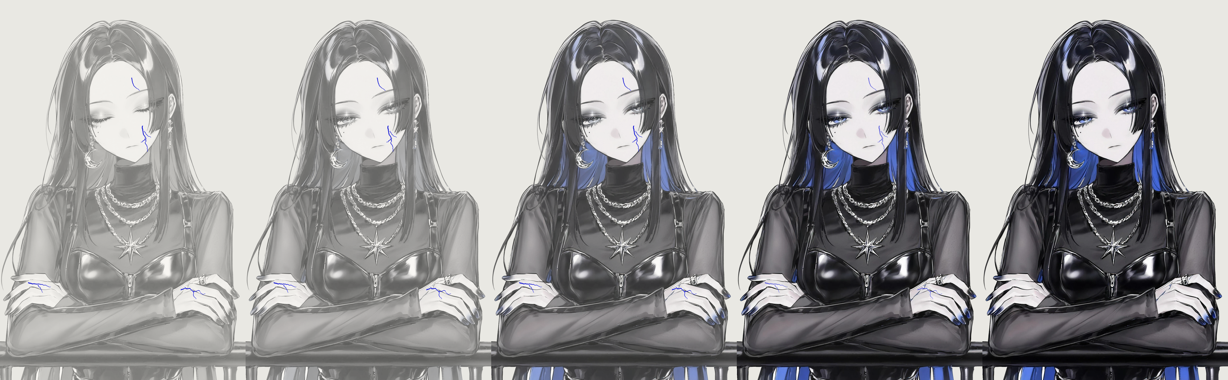
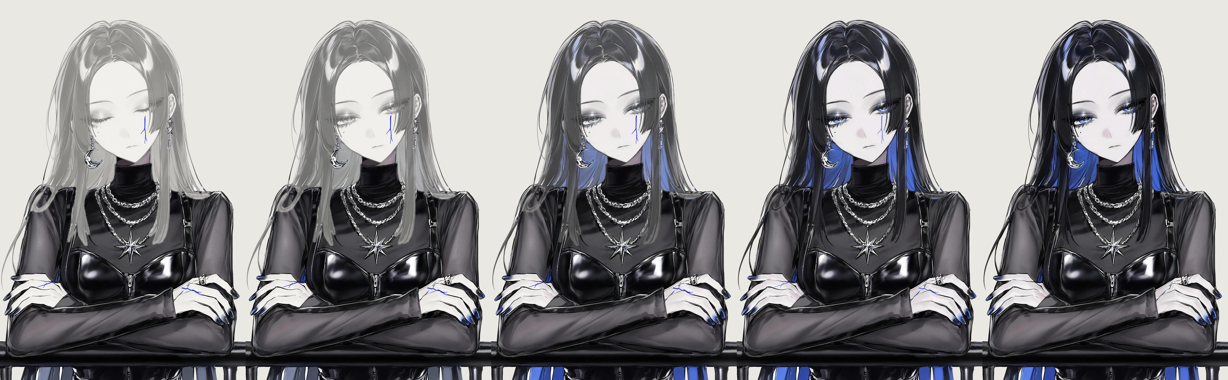
석고는 피부·머리만(옷·장신구 제 색), 금은 눈물 자국+손등, 타이머를 포모도로(4번 집중 = 한 세트)로
Claude-Session: https://claude.ai/code/session_015z2jERGhkXRnxmKCmzk3Uw

diff --git a/work/celeste/app/index.html b/work/celeste/app/index.html
@@ -42,8 +42,15 @@
     color:var(--ink);border-radius:0;outline:none;-webkit-user-select:text;user-select:text}
   #subject::placeholder{color:var(--grey)}
   #presets{display:flex;gap:4px}
-  #presets button{width:38px;height:32px;border:1px solid var(--ink);background:#fff;font:15px var(--serif);display:grid;place-items:center}
+  #presets button{min-width:46px;padding:0 5px;height:32px;border:1px solid var(--ink);background:#fff;font:15px var(--serif);display:flex;align-items:baseline;justify-content:center;white-space:nowrap}
   #presets button[aria-pressed=true]{background:var(--ink);color:var(--paper)}
+  #presets small{font-size:10px;opacity:.7}
+  #pomo{grid-column:1/3;display:flex;align-items:center;gap:5px;margin-top:10px;font:10px 'American Typewriter','Courier New',monospace;letter-spacing:.06em}
+  #pomo i{width:9px;height:9px;border:1.3px solid var(--ink);border-radius:50%;background:var(--paper2)}
+  #pomo i.on{background:var(--bleu);border-color:var(--bleu)}
+  #pomo i.now{background:linear-gradient(90deg,var(--bleu) 50%,var(--paper2) 50%)}
+  #pomo span{margin-left:4px;background:var(--paper2);padding:1px 5px}
+  #time.rest{color:#666} #time.rest span{color:#666}
   #recent{grid-column:1/3;display:flex;gap:6px;overflow:hidden;height:22px;margin-top:4px}
   #recent button{font-size:11px;color:var(--ink);background:var(--paper2);border:1px solid var(--line);padding:2px 8px;white-space:nowrap}
 
@@ -148,6 +155,7 @@
     <div id="brand"><button id="date" type="button"></button><b>BLEU <i>MINUIT</i></b></div>
     <div id="time">25<span>:</span>00</div>
     <div id="moonBox"><canvas id="moon"></canvas><div id="moonTxt"></div></div>
+    <div id="pomo"></div>
     <div id="row">
       <input id="subject" placeholder="무엇에 집중할까요" maxlength="20" enterkeyhint="done" autocomplete="off">
       <div id="presets"></div>
@@ -172,7 +180,7 @@
     <div id="btns"><button id="go">집중 시작</button><button id="quit" hidden>그만두기</button></div>
     <div id="stats">
       <div><b id="sTime">0분</b><span>오늘</span></div>
-      <div><b id="sCnt">0</b><span>완주</span></div>
+      <div><b id="sCnt">0</b><span>포모도로</span></div>
       <div><b id="sBest">0분</b><span>최장</span></div>
     </div>
   </footer>
@@ -562,54 +570,91 @@ function tone(freqs, dur, type = 'sine', vol = .12){
   }catch(e){}
 }
 
-/* ═══ 타이머 ═══ */
-let mins = 25, total = 1500, remain = 1500, endAt = 0, mode = 'idle', tid = null, wake = null;
+/* ═══ 타이머: 포모도로 ═══
+   집중 → 짧은 휴식 → … 4번째 집중이 끝나면 긴 휴식. 셀레스트의 색은 한 세트(집중 4번)에 걸쳐 돌아온다.
+   휴식은 집중이 끝나면 저절로 시작, 휴식이 끝나면 다음 집중은 눌러서 시작 */
+const POMO = [[25, 5, 15], [50, 10, 20], [15, 3, 10]], ROUNDS = 4;
+let pomo = 0, phase = 'focus', rounds = 0;          // rounds = 이번 세트에서 끝낸 집중 수
+let total = 1500, remain = 1500, endAt = 0, mode = 'idle', tid = null, wake = null;
+try{ pomo = clamp(+localStorage.getItem('bleu.pomo') || 0, 0, POMO.length - 1); }catch(e){}
+const mins = () => POMO[pomo][0];
 const STAGES = [[0,'plâtre · 석고'],[.25,'craquelure · 금'],[.5,'aube · 새벽빛'],[.75,'bleu · 푸름'],[1,'minuit · 자정']];
-function progress(){ return mode === 'idle' ? 0 : total ? (total - remain)/total : 0; }
+function progress(){
+  if(mode === 'finished') return 1;
+  if(mode === 'idle') return 0;
+  const f = phase === 'focus' && (mode === 'run' || mode === 'paused') ? (total - remain)/total : 0;
+  return Math.min(1, (rounds + f)/ROUNDS);
+}
 function paint(){
   const m = Math.floor(remain/60), s = remain % 60;
   $('time').innerHTML = String(m).padStart(2,'0') + '<span>:</span>' + String(s).padStart(2,'0');
-  const p = mode === 'finished' ? 1 : progress();
+  $('time').classList.toggle('rest', phase !== 'focus' && mode !== 'idle');
+  const p = progress();
   paintMoon(p);
   $('haloB').innerHTML = haloSvg(false, p); $('haloF').innerHTML = haloSvg(true, p);
   $('stageName').textContent = STAGES.filter(x=>p >= x[0]).pop()[1];
-  $('quit').hidden = !(mode === 'run' || mode === 'paused');
+  $('quit').hidden = mode === 'idle' || mode === 'finished' && phase === 'focus';
+  // 세트 표시: ●●○○ + 지금 단계
+  const dots = Array.from({length:ROUNDS}, (_, i)=>'<i class="' + (i < rounds ? 'on' : i === rounds && phase === 'focus' && mode !== 'idle' ? 'now' : '') + '"></i>').join('');
+  const lbl = mode === 'idle' ? 'POMODORO · 집중 ' + POMO[pomo][0] + ' / 휴식 ' + POMO[pomo][1]
+    : phase === 'focus' ? 'FOCUS ' + Math.min(rounds + 1, ROUNDS) + '/' + ROUNDS : phase === 'long' ? 'LONGUE PAUSE · 긴 휴식' : 'PAUSE · 휴식';
+  $('pomo').innerHTML = dots + '<span>' + lbl + '</span>';
 }
 async function keepAwake(on){ try{ if(on && 'wakeLock' in navigator) wake = await navigator.wakeLock.request('screen'); else if(wake){ await wake.release(); wake = null; } }catch(e){} }
 function setStatus(t){ $('status').textContent = t; }
 function toast(t, ms = 2400){ const el = $('toast'); el.textContent = t; el.classList.add('on'); clearTimeout(el._t); el._t = setTimeout(()=>el.classList.remove('on'), ms); }
-function setMins(v){ mins = v; total = v*60; remain = total;
-  document.querySelectorAll('#presets button').forEach(b=>b.setAttribute('aria-pressed', String(+b.dataset.m === v))); paint(); }
+function setPomo(i){ pomo = i; try{ localStorage.setItem('bleu.pomo', i); }catch(e){}
+  phase = 'focus'; total = remain = mins()*60;
+  document.querySelectorAll('#presets button').forEach(b=>b.setAttribute('aria-pressed', String(+b.dataset.i === i))); paint(); }
+function setGo(t, run){ $('go').textContent = t; $('go').classList.toggle('run', !!run); }
+function runPhase(ph){                                   // 한 단계(집중/휴식/긴 휴식) 시작
+  phase = ph; total = remain = POMO[pomo][ph === 'focus' ? 0 : ph === 'break' ? 1 : 2]*60;
+  mode = 'run'; endAt = Date.now() + remain*1000;
+  clearInterval(tid); tid = setInterval(tickOnce, 1000); keepAwake(true);
+  if(ph === 'focus'){ cur = {s:subjOf(), t:Date.now(), sec:0, mins:mins()}; $('subject').disabled = true; if(rig) rig.expr = '';
+    setGo('잠시 멈춤', true); setStatus(cur.s + ' · 집중 ' + (rounds + 1) + '/' + ROUNDS); }
+  else { setGo('휴식 건너뛰기', false); setStatus(ph === 'long' ? '한 세트 끝 · 길게 쉬어요' : '잠깐 쉬어요 · 셀레스트도 숨을 고르는 중'); }
+  paint();
+}
 function tickOnce(){
   const was = remain; remain = Math.max(0, Math.round((endAt - Date.now())/1000));
-  const add = Math.max(0, was - remain); rec.todaySec += add; if(cur) cur.sec += add;
-  if(rec.todaySec % 15 < add) saveRec();
-  paint(); paintStats(); if(remain <= 0) finish();
+  const add = Math.max(0, was - remain);
+  if(phase === 'focus'){ rec.todaySec += add; if(cur) cur.sec += add; if(rec.todaySec % 15 < add) saveRec(); }
+  paint(); paintStats(); if(remain <= 0) phaseEnd();
 }
-function start(){
-  if(mode === 'run'){ pause(); return; }
-  if(mode !== 'paused') remain = total;
-  if(!cur) cur = {s:subjOf(), t:Date.now(), sec:0, mins};
-  if(rig) rig.expr = '';
-  mode = 'run'; endAt = Date.now() + remain*1000; $('subject').disabled = true;
-  $('go').textContent = '잠시 멈춤'; $('go').classList.add('run'); setStatus(cur.s + ' · ' + mins + '분');
-  keepAwake(true); clearInterval(tid); tid = setInterval(tickOnce, 1000); paint();
+function phaseEnd(){
+  clearInterval(tid);
+  if(phase === 'focus'){
+    rounds++; rec.done++; rec.best = Math.max(rec.best, mins()); commit(true); $('subject').disabled = false;
+    if(rounds >= ROUNDS){                                // 세트 완주: 색을 다 되찾고 긴 휴식
+      tone([523.25, 659.25, 783.99, 1046.5], 1.4); if(rig) rig.expr = 'smile'; doves(); toast('Bleu Minuit', 3000);
+      runPhase('long'); mode = 'run'; return;
+    }
+    tone([659.25, 783.99], .9); runPhase('break'); return;
+  }
+  // 휴식 끝
+  tone([783.99, 659.25], .9, 'sine', .1); keepAwake(false);
+  if(phase === 'long'){ rounds = 0; mode = 'finished'; phase = 'focus'; total = remain = mins()*60;
+    setGo('새 세트 시작'); setStatus('세트를 마쳤어요 · 셀레스트는 그대로 깨어 있어요'); paint(); paintStats(); return; }
+  mode = 'wait'; phase = 'focus'; total = remain = mins()*60;
+  setGo('다음 집중 ' + (rounds + 1) + '/' + ROUNDS); setStatus('휴식 끝 · 준비되면 눌러요'); paint();
+}
+function start(){                                        // 큰 버튼
+  if(mode === 'run' && phase === 'focus'){ pause(); return; }
+  if(mode === 'run'){ remain = 0; phaseEnd(); return; }   // 휴식 건너뛰기
+  if(mode === 'paused'){ mode = 'run'; endAt = Date.now() + remain*1000; clearInterval(tid); tid = setInterval(tickOnce, 1000); keepAwake(true);
+    setGo('잠시 멈춤', true); setStatus(cur.s + ' · 집중 ' + (rounds + 1) + '/' + ROUNDS); paint(); return; }
+  if(mode === 'idle' || mode === 'finished'){ rounds = 0; if(rig) rig.expr = ''; }
+  runPhase('focus');
 }
 function pause(){ mode = 'paused'; clearInterval(tid); keepAwake(false); saveRec();
-  $('go').textContent = '이어서 집중'; $('go').classList.remove('run'); setStatus('석고가 숨을 고르는 중'); paint(); }
-function finish(){ clearInterval(tid); keepAwake(false);
-  remain = 0; mode = 'finished'; rec.done++; rec.best = Math.max(rec.best, mins); commit(true); $('subject').disabled = false;
-  tone([523.25, 659.25, 783.99, 1046.5], 1.4);
-  if(rig){ rig.expr = 'smile'; }
-  doves();
-  setStatus(mins + '분 완주 · 셀레스트가 색을 되찾았어요');
-  $('go').textContent = '다시 시작'; $('go').classList.remove('run'); toast('Bleu Minuit', 3000); paint(); paintStats(); }
-function giveUp(){ const spent = Math.floor((total - remain)/60);
-  clearInterval(tid); keepAwake(false); saveRec(); commit(false); $('subject').disabled = false; mode = 'idle'; remain = total;
-  $('go').textContent = '집중 시작'; $('go').classList.remove('run');
-  if(rig){ rig.expr = 'frown'; setTimeout(()=>{ if(mode === 'idle' && rig.expr === 'frown') rig.expr = ''; }, 4500); }
+  setGo('이어서 집중'); setStatus('석고가 숨을 고르는 중'); paint(); }
+function giveUp(){ const spent = phase === 'focus' && cur ? Math.floor(cur.sec/60) : 0, was = rounds;
+  clearInterval(tid); keepAwake(false); saveRec(); if(phase === 'focus') commit(false); $('subject').disabled = false;
+  mode = 'idle'; phase = 'focus'; rounds = 0; total = remain = mins()*60; setGo('집중 시작');
+  if(rig && (spent >= 1 || was)){ rig.expr = 'frown'; setTimeout(()=>{ if(mode === 'idle' && rig.expr === 'frown') rig.expr = ''; }, 4500); }
   tone([392, 277.18], 1.6, 'triangle', .08);
-  setStatus(spent >= 1 ? spent + '분은 기록에 남았어요' : '시간을 고르고 시작하세요'); paint(); }
+  setStatus(spent >= 1 || was ? '세트를 멈췄어요 · 집중한 시간은 기록에 남았어요' : '시간을 고르고 시작하세요'); paint(); }
 function doves(){
   const box = $('doves'); box.innerHTML = '';
   for(let i = 0; i < 7; i++){ const im = new Image(); im.src = PARTS + 'obj_dove.webp';
@@ -620,19 +665,17 @@ function doves(){
 }
 
 /* ═══ UI ═══ */
-$('presets').innerHTML = [10,25,40,60].map(v=>'<button data-m="'+v+'" aria-pressed="'+(v === 25)+'">'+v+'</button>').join('');
+$('presets').innerHTML = POMO.map((v, i)=>'<button data-i="'+i+'" aria-pressed="'+(i === pomo)+'">'+v[0]+'<small>/'+v[1]+'</small></button>').join('');
 $('presets').onclick = e=>{ const b = e.target.closest('button'); if(!b) return;
-  if(mode === 'run'){ toast('집중 중엔 바꿀 수 없어요', 1700); return; }
-  if(mode === 'paused'){ commit(false); }
-  if(mode !== 'idle'){ mode = 'idle'; $('go').textContent = '집중 시작'; setStatus('시간을 고르고 시작하세요'); if(rig) rig.expr = ''; }
-  setMins(+b.dataset.m); };
+  if(mode !== 'idle' && mode !== 'finished'){ toast('세트 중엔 바꿀 수 없어요', 1700); return; }
+  setPomo(+b.dataset.i); };
 $('recent').onclick = e=>{ const b = e.target.closest('button'); if(!b) return; if(b.dataset.cal){ openCal(); return; }
   if(b.dataset.i != null){ toggleItem(keyOf(), +b.dataset.i); return; } if(mode === 'run') return; $('subject').value = b.dataset.s; };
 $('subject').addEventListener('keydown', e=>{ if(e.key === 'Enter'){ e.preventDefault(); $('subject').blur(); } });
 $('subject').addEventListener('blur', ()=>setTimeout(()=>{ window.scrollTo(0, 0); fit(); }, 60));
 try{ $('subject').value = localStorage.getItem('midnight.subj') || ''; }catch(e){}
 $('subject').addEventListener('change', ()=>{ try{ localStorage.setItem('midnight.subj', $('subject').value.trim()); }catch(e){} });
-$('go').onclick = ()=>{ if(mode === 'finished'){ mode = 'idle'; } start(); };
+$('go').onclick = start;
 $('quit').onclick = giveUp;
 document.addEventListener('visibilitychange', ()=>{ if(!document.hidden && mode === 'run') tickOnce(); });
 
@@ -659,7 +702,7 @@ addEventListener('resize', fit);
 /* ═══ 시작 ═══ */
 let rig = null, shown = 0;
 (async ()=>{
-  fit(); paint(); paintStats();
+  fit(); setPomo(pomo); paintStats();
   ['haloB','haloF'].forEach(id=>{ $(id).setAttribute('viewBox', `0 0 ${IW} ${IH}`); });
   rig = await CelesteRig($('c'), {base:'../rig/', parts:PARTS, input:$('stage'), capture:location.hash === '#shot'});
   $('loading').remove();

diff --git a/work/celeste/rig/rig.js b/work/celeste/rig/rig.js
@@ -45,7 +45,7 @@ window.CelesteRig = async function(cv, opt = {}){
   const VS = `attribute vec2 p, uv, ip; varying vec2 v, w; uniform vec2 res;
     void main(){ v = uv; w = ip; gl_Position = vec4(p.x/res.x*2.-1., 1.-p.y/res.y*2., 0., 1.); }`;
   const FS = `precision mediump float; varying vec2 v, w;     // v: 레이어 그림 좌표, w: 원화 좌표(쉬는 자세)
-    uniform sampler2D img, msk, clipT; uniform vec4 clipR; uniform vec2 gaze; uniform float isIris, alpha, plaster, crackOn; uniform vec2 ires; uniform vec3 stage;
+    uniform sampler2D img, msk, clipT; uniform vec4 clipR; uniform vec2 gaze; uniform float isIris, alpha, plaster, crackOn, plasterOn; uniform vec2 ires; uniform vec3 stage;
     // 석고: 몸에 붙은 좌표(w)로 만든 무늬라 리깅을 따라 움직인다
     float hash(vec2 p){ return fract(sin(dot(p, vec2(127.1, 311.7)))*43758.5453); }
     float vnoise(vec2 p){ vec2 i = floor(p), f = fract(p); f = f*f*(3. - 2.*f);
@@ -54,18 +54,17 @@ window.CelesteRig = async function(cv, opt = {}){
     float crackLine(vec2 p, vec2 o, float ang, float len, float sd, float wd){   // 원화 픽셀 좌표의 구불구불한 금 한 줄
       vec2 d = vec2(cos(ang), sin(ang)), r = p - o; float t = dot(r, d), sv = dot(r, vec2(-d.y, d.x));
       if(t < 0. || t > len) return 0.;
-      float off = (vnoise(vec2(t*.045, sd)) - .5)*16. + (vnoise(vec2(t*.2, sd + 3.)) - .5)*4.;
+      float off = (vnoise(vec2(t*.03, sd)) - .5)*9. + (vnoise(vec2(t*.13, sd + 3.)) - .5)*2.2;   // 크게 한 번 휘고 잔떨림은 조금
       float hw = mix(wd, .6, t/len)*.5;                  // 끝으로 갈수록 가늘게
       return 1. - smoothstep(hw, hw + .9, abs(sv - off)); }
-    float cracks(vec2 p){                                 // 얼굴(오른뺨·이마)과 두 손등
-      float k = crackLine(p, vec2(708., 930.), 1.3, 150., 1., 4.2);
-      k = max(k, crackLine(p, vec2(722., 990.), 2.3, 55., 2., 2.4));
-      k = max(k, crackLine(p, vec2(718., 962.), .5, 45., 3., 2.2));
-      k = max(k, crackLine(p, vec2(655., 690.), 1.05, 85., 4., 3.2));
-      k = max(k, crackLine(p, vec2(905., 1742.), .22, 125., 5., 4.4));       // 오른손등
-      k = max(k, crackLine(p, vec2(965., 1756.), 1.15, 42., 6., 2.4));
-      k = max(k, crackLine(p, vec2(140., 1716.), .16, 115., 7., 4.2));       // 왼손등
-      k = max(k, crackLine(p, vec2(190., 1724.), .95, 45., 8., 2.2));
+    float cracks(vec2 p){                                 // 눈 밑에서 뺨으로 흐르는 눈물 같은 금 + 두 손등(손가락 방향)
+      float k = crackLine(p, vec2(724., 878.), 1.55, 140., 1., 4.);
+      k = max(k, crackLine(p, vec2(722., 940.), 2.2, 36., 2., 2.2));
+      k = max(k, crackLine(p, vec2(722., 980.), 1.05, 30., 3., 1.8));
+      k = max(k, crackLine(p, vec2(910., 1736.), .38, 120., 5., 3.8));       // 오른손등
+      k = max(k, crackLine(p, vec2(975., 1762.), -.15, 34., 6., 2.));
+      k = max(k, crackLine(p, vec2(292., 1702.), 2.86, 110., 7., 3.6));      // 왼손등
+      k = max(k, crackLine(p, vec2(235., 1716.), 2.3, 30., 8., 1.8));
       return k; }
     void main(){
       vec4 c = texture2D(img, v) * alpha;
@@ -81,7 +80,8 @@ window.CelesteRig = async function(cv, opt = {}){
       vec3 col = mix(u, vec3(l*1.05), g);
       if(plaster < 1.){
         // 석고 → 색: 진행할수록 고르게 색이 돌아온다. 얼굴·손의 파란 금은 끝무렵에 아물어 사라진다
-        float pl = 1. - smoothstep(0., .92, plaster);
+        float sat = max(max(u.r, u.g), u.b) - min(min(u.r, u.g), u.b);
+        float pl = (1. - smoothstep(0., .92, plaster)) * (plasterOn > 1.5 ? max(smoothstep(.5, .72, l)*(1. - smoothstep(.08, .2, sat)), m.r) : plasterOn);   // 옷·장신구는 제 색
         vec3 P = mix(vec3(.42, .42, .41), vec3(.975, .968, .952), pow(l, .6));
         col = mix(col, P, pl);
         if(crackOn > 0.) col = mix(col, vec3(.118, .133, .84), cracks(w*ires)*(1. - smoothstep(.6, .97, plaster)));
@@ -89,6 +89,8 @@ window.CelesteRig = async function(cv, opt = {}){
       gl_FragColor = vec4(col*c.a, c.a);
     }`;
   let U, M = {}, T = {}, ORDER = [];
+  // 석고가 덮이는 층: 1 = 전부(얼굴·머리카락·귀), 2 = 밝은 피부만(목·손 — 옷 부분은 제 색). 나머지(옷·장신구·난간)는 제 색
+  const PLASTER = {face:1, restHead:1, 'ears-l':1, 'ears-r':1, eyes_closed:1, mouth_smile:1, face_frown:1, neck:2, 'handwear-r':2};
   function program(){
     const sh = (t,s)=>{ const o = gl.createShader(t); gl.shaderSource(o,s); gl.compileShader(o);
       if(!gl.getShaderParameter(o, gl.COMPILE_STATUS)) throw gl.getShaderInfoLog(o); return o; };
@@ -264,7 +266,7 @@ window.CelesteRig = async function(cv, opt = {}){
       else if(g === 'iris') headRigid(m, S.gaze.x, S.gaze.y);
       else if(g === 'patch'){ headRigid(m); a = name === 'eyes_closed' ? closed : name === 'mouth_smile' ? S.smile : S.frown; if(a <= .001) continue; }
       else headRigid(m);                                                                      // 얼굴·이목구비·귀·머리 조각: 통째로
-      gl.uniform1f(U.alpha, a); gl.uniform1f(U.crackOn, name === 'face' || name === 'handwear-r' ? 1 : 0);
+      gl.uniform1f(U.alpha, a); gl.uniform1f(U.crackOn, name === 'face' || name === 'handwear-r' ? 1 : 0); gl.uniform1f(U.plasterOn, PLASTER[name] ?? (g === 'hairBack' || g === 'underHair' || g === 'strand' || g === 'hairFront' || g === 'feature' || g === 'eyewhite' || g === 'iris' ? 1 : 0));
       if(g === 'iris'){ const ew = RIG.layers[name.replace('irides', 'eyewhite')];
         gl.uniform1f(U.isIris, 1); gl.activeTexture(gl.TEXTURE2); gl.bindTexture(gl.TEXTURE_2D, T[name.replace('irides', 'eyewhite')]);
         gl.uniform4f(U.clipR, ew.xy[0]/IW, ew.xy[1]/IH, ew.size[0]/IW, ew.size[1]/IH); gl.uniform2f(U.gaze, S.gaze.x/IW, S.gaze.y/IH);
@@ -296,7 +298,7 @@ window.CelesteRig = async function(cv, opt = {}){
     const prog = program(); gl.enable(gl.BLEND); gl.blendFunc(gl.ONE, gl.ONE_MINUS_SRC_ALPHA);
     U = {p:gl.getAttribLocation(prog,'p'), uv:gl.getAttribLocation(prog,'uv'), ip:gl.getAttribLocation(prog,'ip')};
     [U.p, U.uv, U.ip].forEach(a=>gl.enableVertexAttribArray(a));
-    for(const n of ['res','img','msk','clipT','clipR','gaze','isIris','alpha','stage','plaster','crackOn','ires']) U[n] = gl.getUniformLocation(prog,n);
+    for(const n of ['res','img','msk','clipT','clipR','gaze','isIris','alpha','stage','plaster','crackOn','ires','plasterOn']) U[n] = gl.getUniformLocation(prog,n);
     for(const n of ORDER) T[n] = tex(imgs[n], 0);
     tex(imgs.mask, 1); gl.uniform1i(U.img, 0); gl.uniform1i(U.msk, 1); gl.uniform1i(U.clipT, 2); gl.uniform2f(U.res, IW, IH); gl.uniform2f(U.ires, IW, IH);
     for(const n of ORDER){
